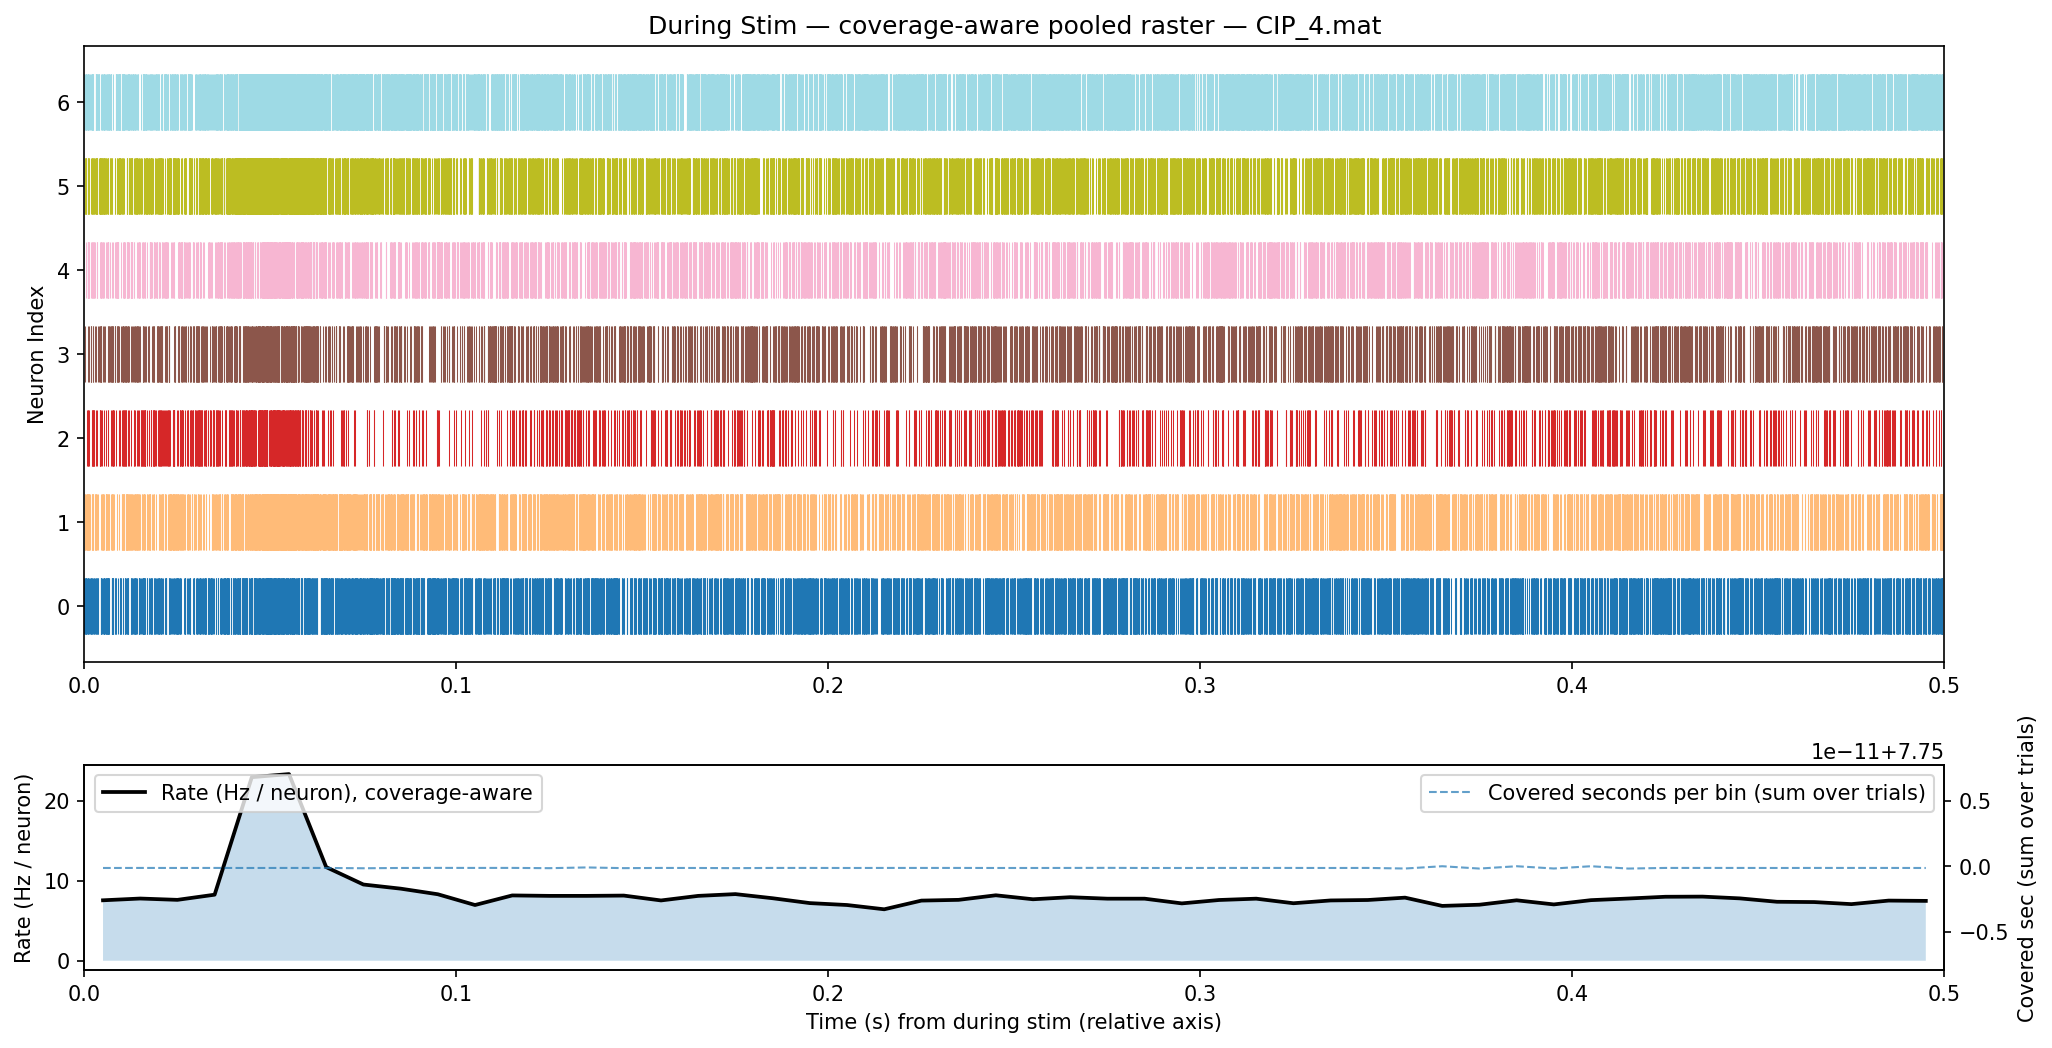
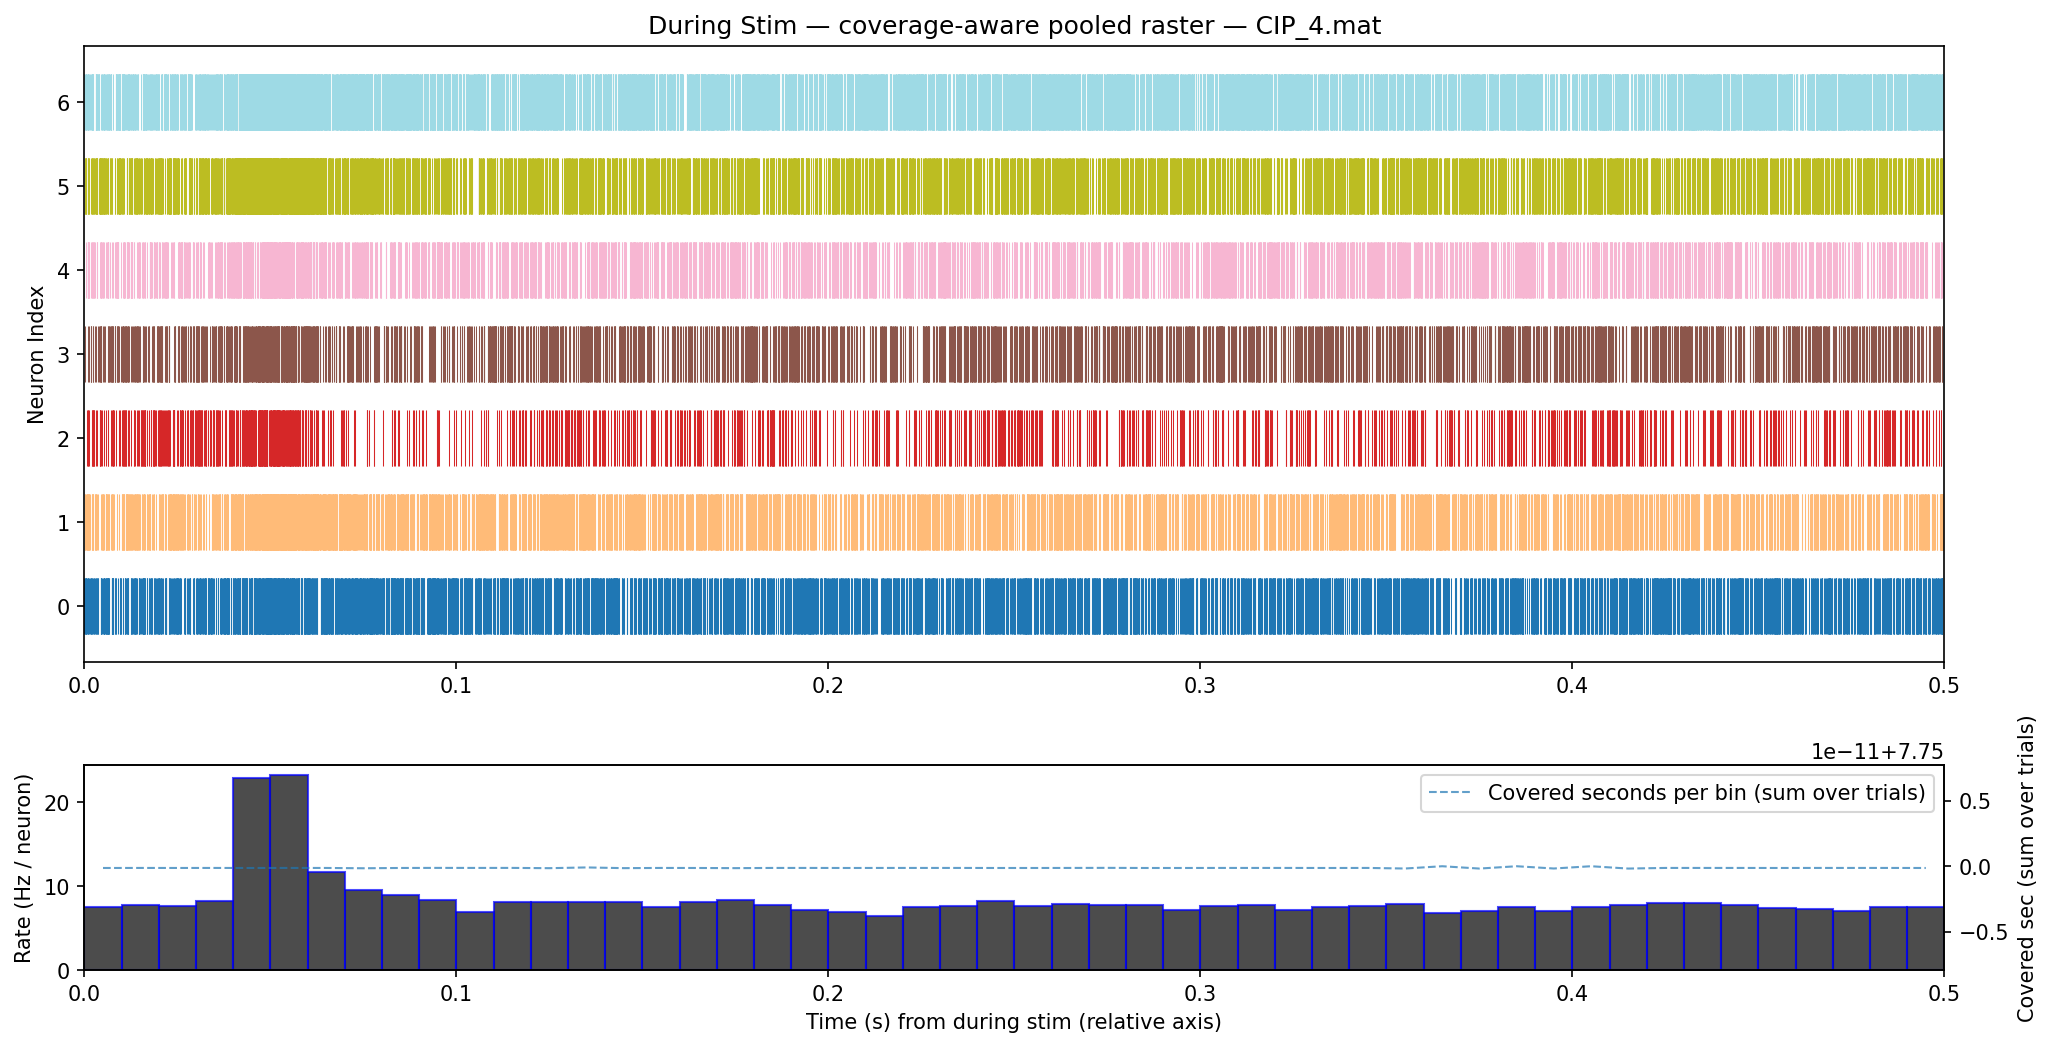
changed to histogram

Changed region(s): [[0.0312, 0.7328, 0.9669, 0.9466]]

diff --git a/fr_recording.py b/fr_recording.py
@@ -251,10 +251,22 @@ def pooled_raster_and_psth_coverage(T, fname, bin_size=BIN_SIZE):
         ax_raster.set_yticks(yticks)
         ax_raster.set_yticklabels(ytick_labels)
 
-        # PSTH
-        centers = edges_rel[:-1] + bin_size/2
-        ax_psth.plot(centers, rate_per_bin, lw=1.8, color='black', label="Rate (Hz / neuron), coverage-aware")
-        ax_psth.fill_between(centers, 0, np.nan_to_num(rate_per_bin, nan=0.0), alpha=0.25)
+
+        # PSTH: use bar instead of line
+        centers = edges_rel[:-1] + bin_size / 2
+        ax_psth.bar(
+            centers,
+            rate_per_bin,
+            width=bin_size,
+            align='center',
+            color='black',
+            alpha=0.7,
+            edgecolor='blue'
+        )
+        ax_psth.set_xlim(rel_lo, rel_hi)
+        ax_psth.set_xlabel(f"Time (s) from {label.lower()} (relative axis)")
+        ax_psth.set_ylabel("Rate (Hz / neuron)")
+
         ax_psth.set_xlim(rel_lo, rel_hi)
         ax_psth.set_xlabel(f"Time (s) from {label.lower()} (relative axis)")
         ax_psth.set_ylabel("Rate (Hz / neuron)")
@@ -263,7 +275,6 @@ def pooled_raster_and_psth_coverage(T, fname, bin_size=BIN_SIZE):
         ax2 = ax_psth.twinx()
         ax2.plot(centers, bin_covered_sec, lw=1.0, ls='--', alpha=0.7, label="Covered seconds per bin (sum over trials)")
         ax2.set_ylabel("Covered sec (sum over trials)")
-        ax_psth.legend(loc='upper left')
         ax2.legend(loc='upper right')
 
         os.makedirs(OUT_DIR, exist_ok=True)
